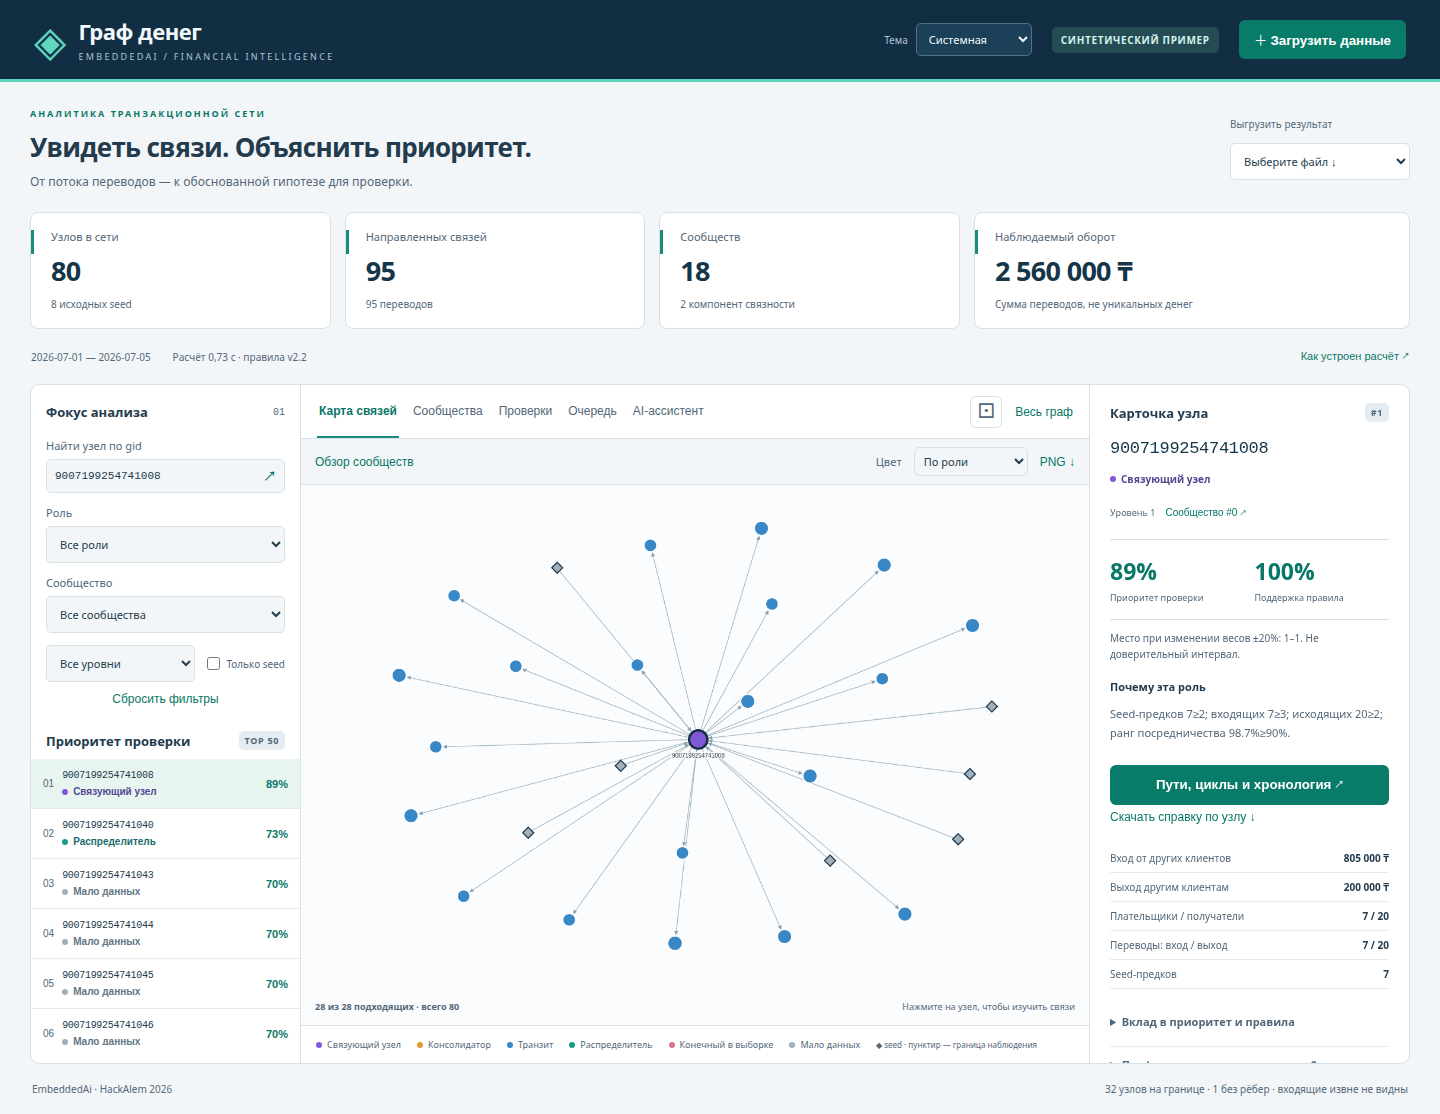
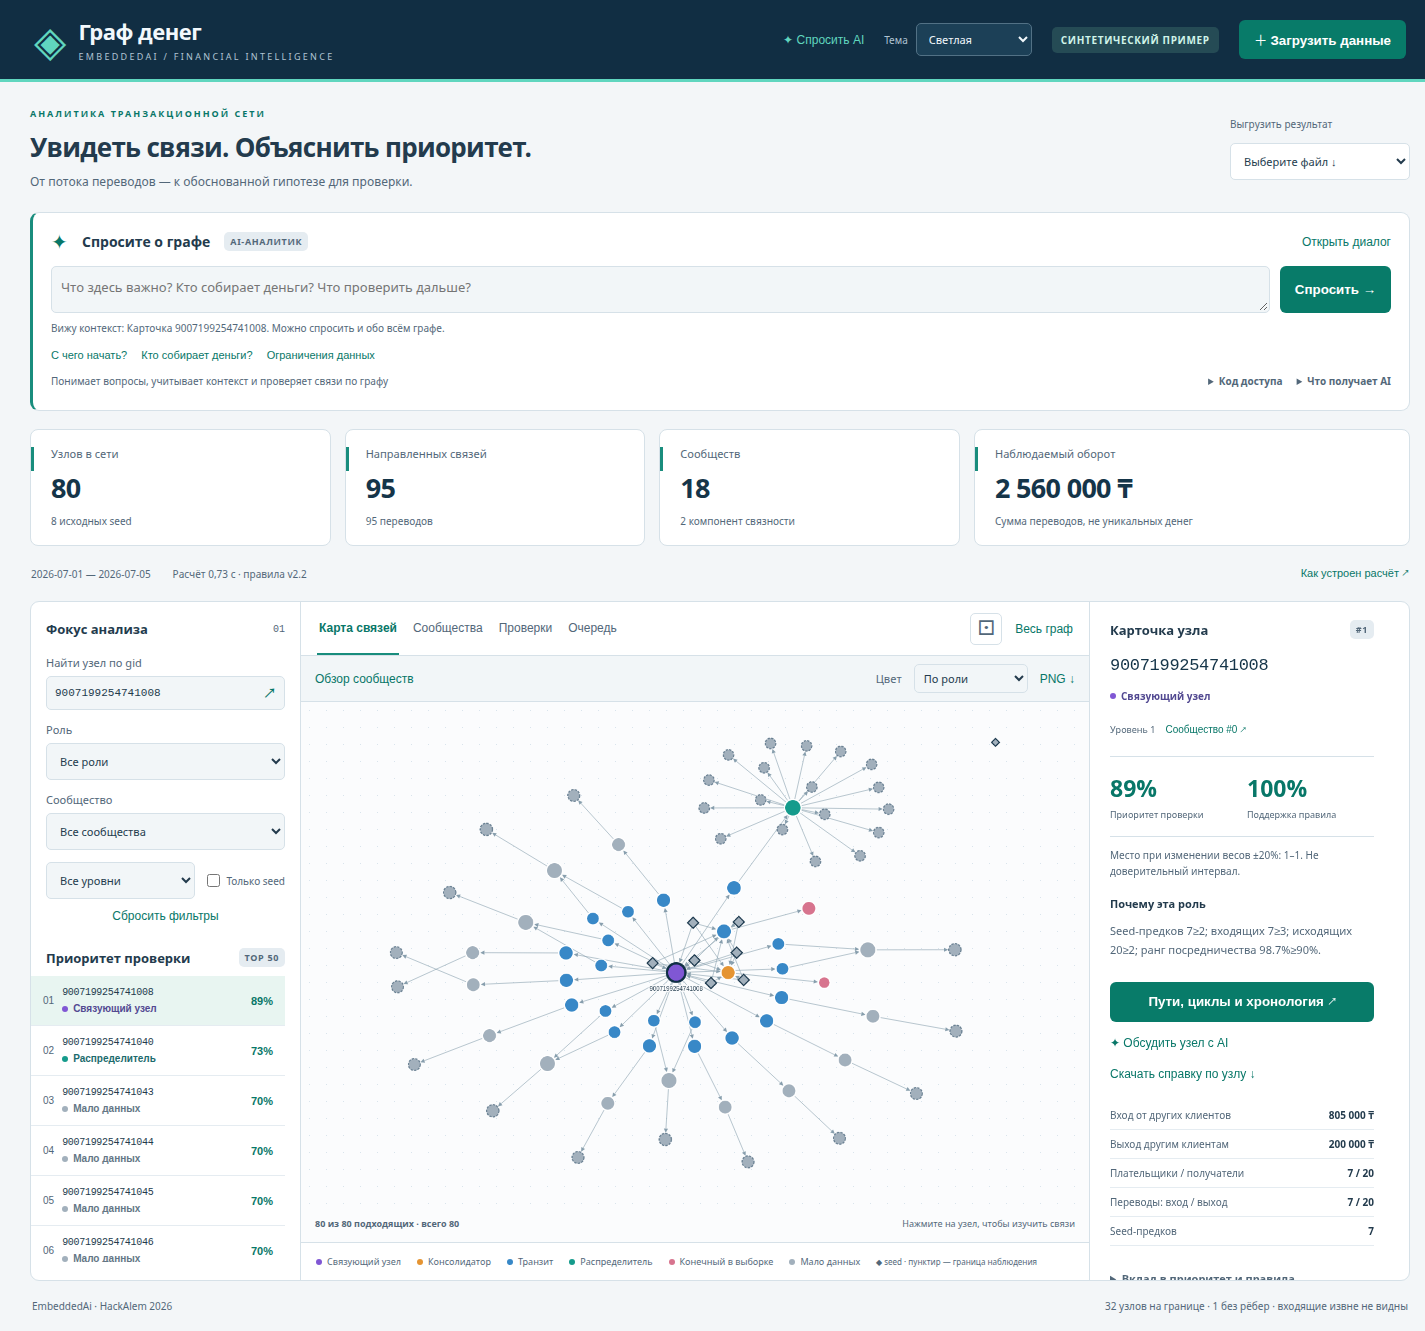
feat: update version to 0.7.0 and enhance assistant text formatting

diff --git a/web/src/assistant.ts b/web/src/assistant.ts
@@ -317,7 +317,9 @@ export class AnalystAssistant {
                 const match = /^\[gid:(-?\d+)\]$/.exec(part);
                 return match && known.has(match[1])
                   ? `<button class="text-button gid" data-assistant-gid="${escapeHtml(match[1])}">${escapeHtml(match[1])} ↗</button>`
-                  : escapeHtml(part);
+                  : escapeHtml(part)
+                      .replace(/\*\*([^*\n]+)\*\*/g, "<strong>$1</strong>")
+                      .replace(/`([^`\n]+)`/g, "<code>$1</code>");
               })
               .join("");
           const refs = (gids: string[]) =>

diff --git a/docs/VALIDATION_07.md b/docs/VALIDATION_07.md
@@ -1,0 +1,85 @@
+# Проверка версии 0.7.0
+
+Дата: 23 сентября 2026. Правила анализа остаются 2.2.
+
+## Изменение
+
+AI-аналитик расположен над показателями, вне внутренних вкладок. Он получает
+контекст карточки, выбранных узлов, общих фильтров и текущей страницы очереди
+с сортировкой и поиском. Диалог имеет ограниченную серверную историю, привязанную
+к конкретному расчёту. Модель выбирает последовательность проверок и объясняет
+вычисленные результаты; ссылки проверяются сервером. Основной CLI остаётся автономным.
+
+Модель — `gpt-5.4-mini-2026-03-17`, reasoning=low. Доступны шесть ограниченных
+инструментов; пределы, приватность и API-контракт описаны в [ASSISTANT.md](ASSISTANT.md).
+
+## Выполненные проверки
+
+Команда:
+
+```sh
+uv run --frozen python scripts/verify.py
+```
+
+- Ruff lint и format, mypy: прошли.
+- **386 Python-тестов**: прошли за 33,25 с.
+- Установка frontend по lockfile, Biome, TypeScript и production build: прошли.
+- Проверка собранного frontend, production API и CSV: прошла.
+- **37 Playwright-сценариев**: прошли за 1,2 мин.
+- После небольшого улучшения отображения выделений в AI-тексте повторно выполнены
+  frontend check/build и 9 сценариев AI/прокрутки: прошли за 31,3 с.
+- Те же **9 сценариев через публичный HTTPS**: прошли за 29,5 с.
+
+Браузерные размеры: 1440×1080, 1366×768, 820×1180, 390×844. Проверены обе темы,
+глобальное расположение AI, независимая вертикальная прокрутка, переходы к узлам,
+выполнение действий только по нажатию, отмена, смена расчёта и устаревший диалог.
+
+Сетевые ответы модели в автоматических тестах подменены. Проверены, в частности:
+
+- последовательность поиска, анализа узлов и окончательного ответа;
+- продолжение диалога по результату предыдущего вопроса;
+- отличие выбранной группы, открытой карточки и видимой страницы очереди;
+- запрет неподтверждённых ссылок и неизвестных действий;
+- сохранение всей явно выбранной группы при первой относящейся к ней проверке;
+- сохранение ссылок на промежуточные узлы путей, даже если кратких профилей больше 20;
+- изоляция диалогов по run_id и отпечатку отчёта, истечение 30 минут, пределы памяти;
+- лимит последовательности и платных вызовов, повтор инструмента, тайм-аут;
+- ошибки ключа/провайдера, отсутствие раскрытия ключа и кода доступа;
+- строгие схемы и воспроизведение контекста reasoning при `store: false`.
+
+Существующие предупреждения pandas о вычислениях на крайних int64 и предупреждение
+Starlette о будущем изменении тестового транспорта сохраняются; тесты проходят.
+
+## Настоящие запросы OpenAI
+
+Выполнены отдельные успешные проверки новой модели, вне автоматических тестов:
+
+| Сценарий | Результат | Время |
+|---|---|---:|
+| Синтетика: выбрать три приоритетных узла | `find_nodes`, проверенные ссылки | 8,1 с |
+| Продолжение: сравнить первых двух | `inspect_nodes(compare)`, правильные gid из истории | 9,1 с |
+| Локальный браузер: объяснить роль открытого узла и следующий шаг | Две проверки `inspect_nodes`, 13 ссылок, без ошибок браузера | 13,0 с |
+| Публичный браузер: выбрать два приоритетных узла | `find_nodes`, 16 ссылок, общий вопрос не ограничен карточкой | 6,9 с |
+| Публичный браузер: сравнить их входящие суммы | `inspect_nodes`, продолжение того же диалога, 15 ссылок | 9,7 с |
+
+Это функциональные примеры, а не оценка точности модели на всех формулировках.
+Текст AI может ошибаться: детерминированные факты показаны отдельно. Проверка
+существования и происхождения gid не доказывает каждое предложение модели.
+
+## Сохранность результата и деплой
+
+Три обязательных CSV не изменились (SHA-256):
+
+| Файл | SHA-256 |
+|---|---|
[3 lines of base64/hex data omitted]
+
+На https://cca8f159.nip.io опубликована версия 0.7.0; `/health` возвращает 200,
+сервисы приложения и Caddy активны, платный AI защищён отдельным кодом доступа.
+Публичный набор остаётся синтетическим. Снимки в `docs/images` сделаны с публичной
+синтетики; исходные файлы организаторов и private/ в релиз не включены.
+
+CI остаётся `disabled_manually`. Проверка отслеживаемых файлов на совпадения
+с настоящим API-ключом и кодом доступа не обнаружила совпадений.

diff --git a/README.md b/README.md
@@ -174,7 +174,7 @@ Bash-обёртки `scripts/start.sh` и `scripts/verify.sh` сохранены
 
 ![Синтетический пример: направленный граф и объяснение роли узла](docs/images/demo.png)
 
-[Посмотреть тёмную тему](docs/images/demo-dark.png) · [Пример AI-ответа](docs/images/assistant.png).
+[Посмотреть тёмную тему](docs/images/demo-dark.png) · [AI-аналитик над графом](docs/images/assistant.png).
 
 Основной сценарий: загрузите три файла → откройте TOP → объясните роль через
 факты → найдите произвольный `gid` → покажите связи/сообщество → скачайте CSV.
